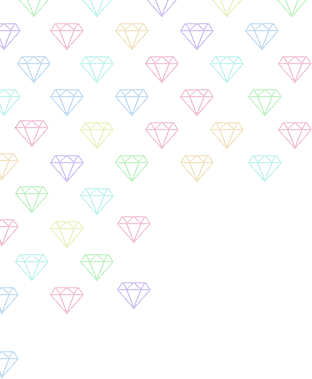
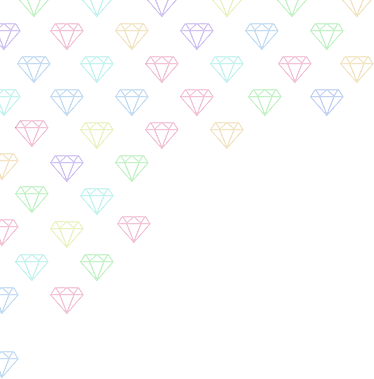
background

diff --git a/_site/assets/css/app.css b/_site/assets/css/app.css
@@ -1259,7 +1259,7 @@ input, textarea {
 	.filter {
 		background: url("../images/diamond-pattern-left.png"), url("../images/diamond-pattern-right.png");
 		background-repeat: no-repeat, no-repeat;
-		background-position: calc(50% - 406px) 0px,calc(50% + 406px) 0px;
+		background-position: calc(50% - 325px) -4px,calc(50% + 325px) -4px;
 	}
 
 }

diff --git a/assets/css/app.css b/assets/css/app.css
@@ -1259,7 +1259,7 @@ input, textarea {
 	.filter {
 		background: url("../images/diamond-pattern-left.png"), url("../images/diamond-pattern-right.png");
 		background-repeat: no-repeat, no-repeat;
-		background-position: calc(50% - 406px) 0px,calc(50% + 406px) 0px;
+		background-position: calc(50% - 325px) -4px,calc(50% + 325px) -4px;
 	}
 
 }
